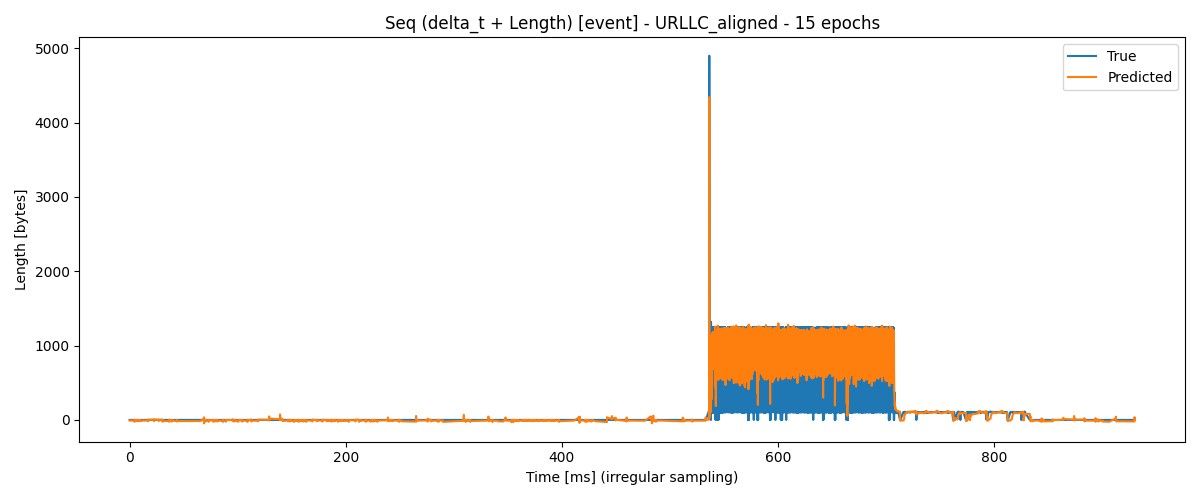
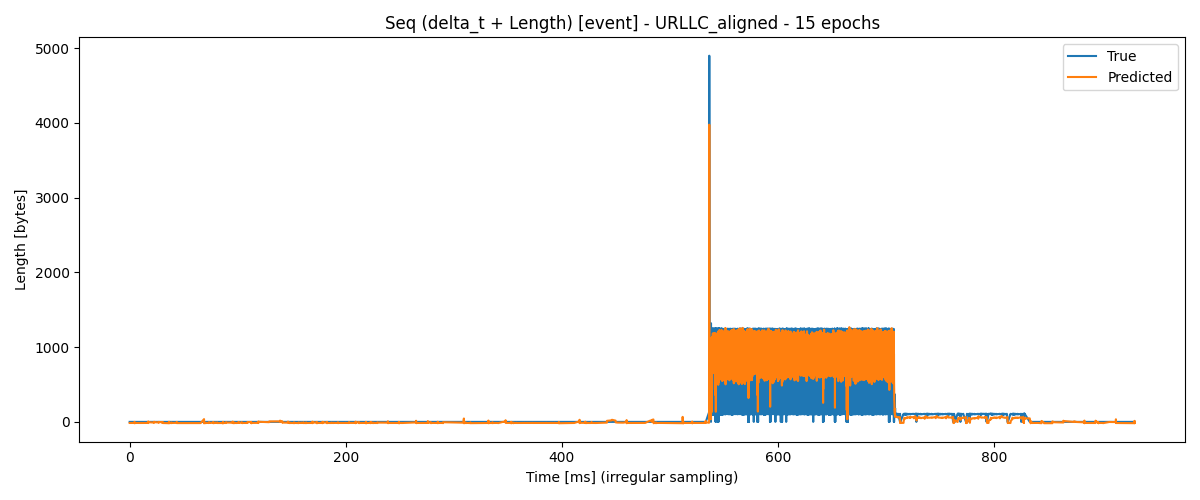
bug in the uniform form saved

diff --git a/backend/notebooks/plot_and_predict_runner.py b/backend/notebooks/plot_and_predict_runner.py
@@ -221,12 +221,13 @@ def build_uniform_dataframe(df: pd.DataFrame) -> pd.DataFrame:
 
     start = float(time_vals[0])
     stop = float(time_vals[-1])
-    steps = int(np.floor((stop - start) / min_gap)) + 1
+    total_span = max(stop - start, min_gap)
+    max_steps = 2_000_000
 
-    if steps > 2_000_000:
-        raise RuntimeError(
-            f"Uniform resampling would create {steps} steps; increase window or filter trace first."
-        )
+    steps = int(np.floor(total_span / min_gap)) + 1
+    if steps > max_steps:
+        min_gap = total_span / max_steps
+        steps = max_steps + 1
 
     grid = start + np.arange(steps) * min_gap
     length_series = np.zeros_like(grid)

diff --git a/backend/README.md b/backend/README.md
@@ -388,6 +388,7 @@ Options:
   - `length`: raw event history, `Length` feature only (sequence padding handles gaps).
   - `delta_t+length`: raw event history with an extra `Δt` channel so the model learns inter-arrival spacing explicitly.
   - `uniform-length`: detects the smallest positive `Δt`, expands the trace onto that uniform grid with zero-filled missing slots, then trains on `Length` alone (useful if you want explicitly time-aligned samples).
+    - If a trace contains extremely fine jitter, the script caps the grid to ~2M points by relaxing the detected gap so training stays tractable.
 - `--num-layers` to deepen the LSTM.
 - `--device auto|cpu|cuda` to override accelerator selection (use `cpu` if GPU memory is tight).
 - `--output-dir` defaults to `plots/` in the repo root if not provided.
